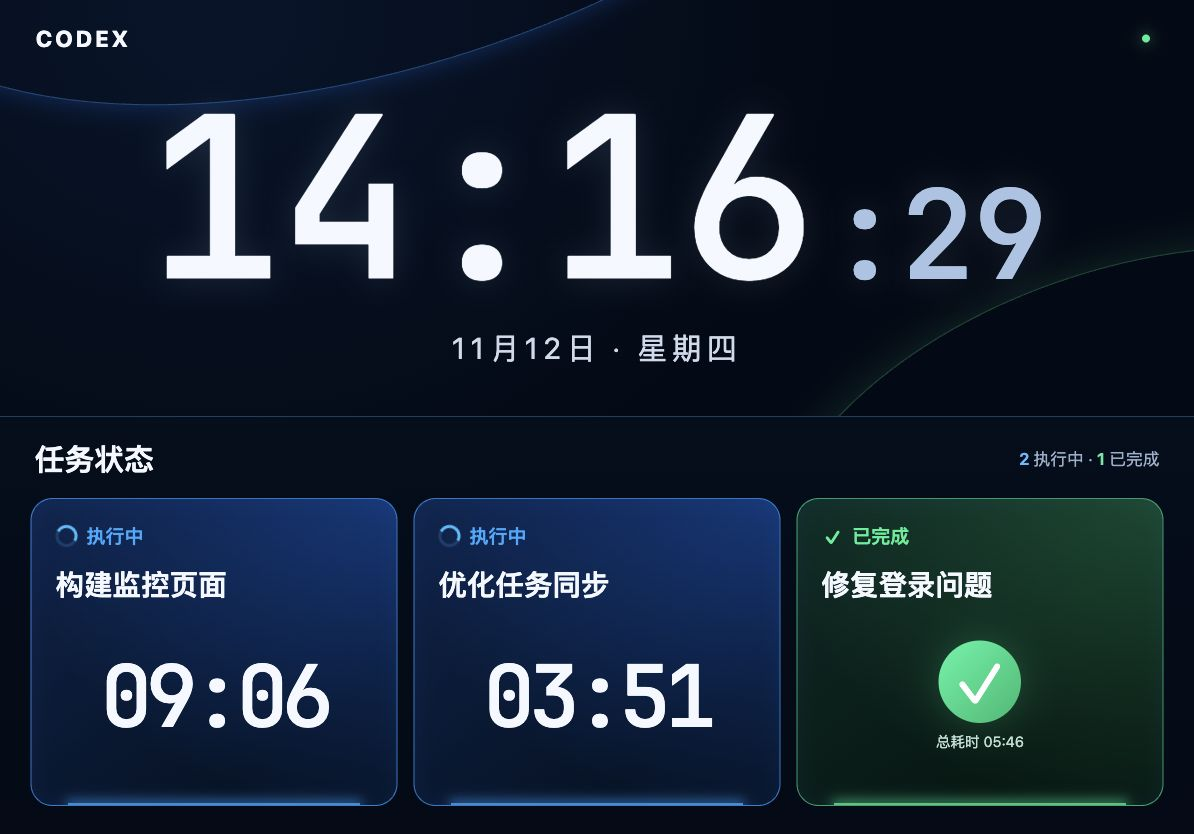
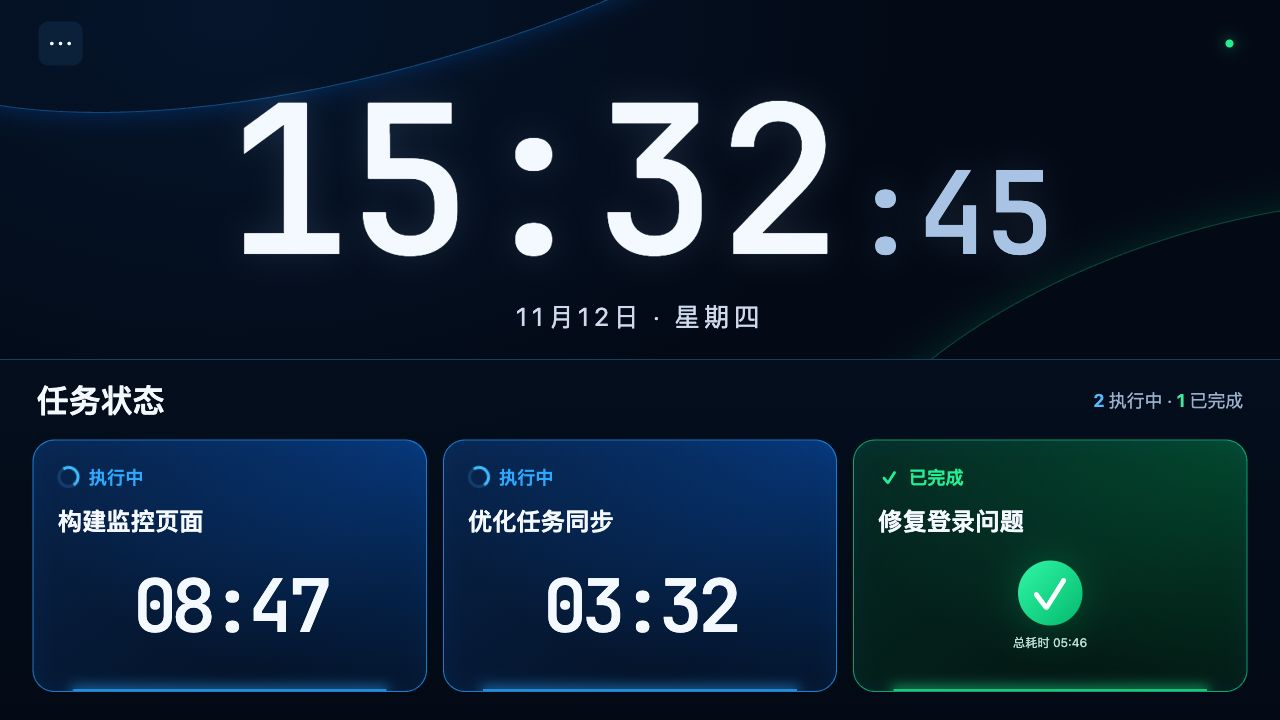
Replace Codex wordmark with a compact controls menu

diff --git a/public/style.css b/public/style.css
@@ -64,8 +64,9 @@ main {
 }
 .topbar, .tasks-heading { display: flex; align-items: center; justify-content: space-between; gap: 16px; min-width: 0; }
 .topbar { position: relative; z-index: 2; flex-shrink: 0; }
-.brand { font-size: clamp(15px, 1.9vw, 26px); font-weight: 750; letter-spacing: .14em; cursor: pointer; list-style: none; }
-.brand::-webkit-details-marker { display: none; }
+.menu-trigger { display: grid; place-items: center; width: 44px; height: 44px; color: #91aac7; font-size: 26px; line-height: 1; cursor: pointer; list-style: none; border-radius: 10px; }
+.menu-trigger:hover { color: #f4f8ff; background: #15345666; }
+.menu-trigger::-webkit-details-marker { display: none; }
 .menu { position: relative; }
 .menu-actions { position: absolute; left: 0; top: calc(100% + 14px); display: grid; padding: 6px; min-width: 160px; border: 1px solid #284e76; border-radius: 12px; background: #09172b; box-shadow: 0 12px 36px #0008; }
 .menu-actions button { border: none; background: transparent; color: #d4e2f5; text-align: left; padding: 12px; border-radius: 7px; cursor: pointer; font-size: 14px; }

diff --git a/public/index.html b/public/index.html
@@ -19,7 +19,7 @@
     <section class="clock-panel" aria-label="时钟">
       <header class="topbar">
         <details class="menu">
-          <summary class="brand" aria-label="监控操作">CODEX</summary>
+          <summary class="menu-trigger" aria-label="监控操作" title="监控操作"><span aria-hidden="true">⋯</span></summary>
           <div class="menu-actions"><button id="clear" type="button">清除已结束</button><button id="fullscreen" type="button">切换全屏</button></div>
         </details>
         <div class="connection" id="connection" role="status" title="正在连接 Mac"><i></i><span class="sr-only">正在连接 Mac</span></div>

diff --git a/README.en.md b/README.en.md
@@ -54,7 +54,7 @@ In Safari, choose **Share → Add to Home Screen** for a standalone display. Kee
 
 ## Controls and task states
 
-Click **CODEX** in the top-left corner to open the controls. **清除已结束** clears finished cards in this browser; **切换全屏** requests fullscreen where supported. A connection dot is green when connected and orange when disconnected. Hover over it to read its status.
+Click **⋯** in the top-left corner to open the controls. **清除已结束** clears finished cards in this browser; **切换全屏** requests fullscreen where supported. A connection dot is green when connected and orange when disconnected. Hover over it to read its status.
 
 | Card | Meaning |
 | --- | --- |

diff --git a/README.md b/README.md
@@ -54,7 +54,7 @@ Mac 上打开 [http://localhost:8790/](http://localhost:8790/)。在 iPad Safari
 
 ## 操作和状态
 
-点击左上角 **CODEX** 打开菜单。“清除已结束”用于隐藏当前浏览器的结束记录，“切换全屏”用于在浏览器支持时进入全屏。连接指示点正常时为绿色，断线时为橙色；支持鼠标的设备可悬停查看状态说明。
+点击左上角 **⋯** 打开菜单。“清除已结束”用于隐藏当前浏览器的结束记录，“切换全屏”用于在浏览器支持时进入全屏。连接指示点正常时为绿色，断线时为橙色；支持鼠标的设备可悬停查看状态说明。
 
 | 卡片 | 含义 |
 | --- | --- |
